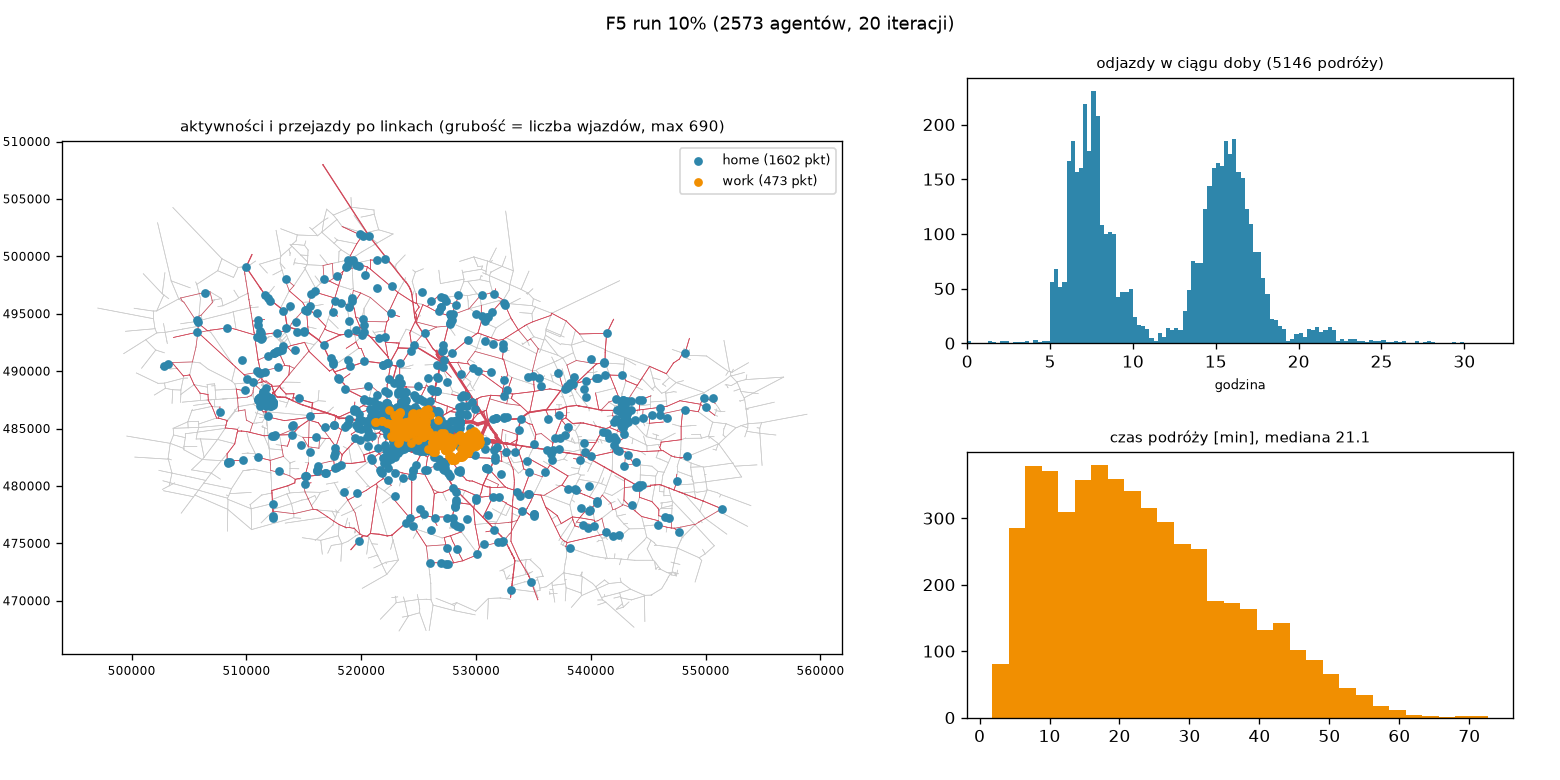
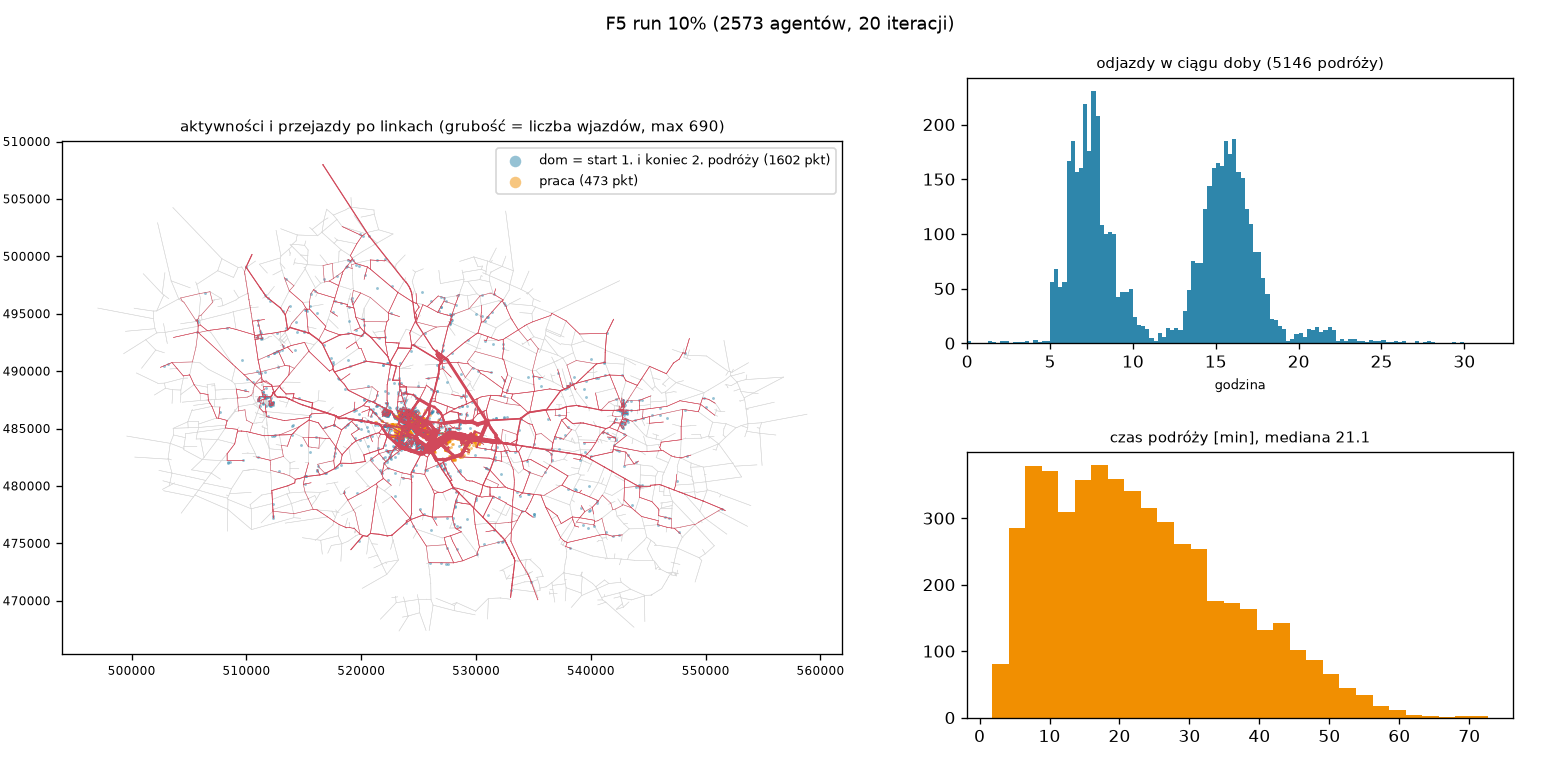
faza5 wykresy: linki z ruchem nad kropkami, mapa opóźnień rozróżnia brak ruchu i ruch bez opóźnienia

diff --git a/pipeline/link_delay.py b/pipeline/link_delay.py
@@ -56,8 +56,17 @@ fig, ax = plt.subplots(figsize=(10, 9))
 for lk, l in L.items():
     (x1, y1), (x2, y2) = nodes[l["a"]], nodes[l["b"]]
     avg = delay[lk] / n[lk] if n[lk] else 0
-    ax.plot([x1, x2], [y1, y2], color=plt.cm.inferno_r(min(avg / 300, 1)) if avg > 10 else "0.85",
-            lw=0.4 + 3 * min(avg / 300, 1), zorder=2 if avg > 10 else 1)
+    if not n[lk]:  # nikt nie przejechał
+        style = dict(color="0.88", lw=0.4, zorder=1)
+    elif avg <= 10:  # ruch bez opóźnienia (≤ 10 s)
+        style = dict(color="#7fb3d5", lw=0.8, zorder=2)
+    else:
+        style = dict(color=plt.cm.inferno_r(min(avg / 300, 1)), lw=0.8 + 3 * min(avg / 300, 1), zorder=3)
+    ax.plot([x1, x2], [y1, y2], **style)
+ax.plot([], [], color="0.88", label=f"bez ruchu ({sum(1 for lk in L if not n[lk])} linków)")
+ax.plot([], [], color="#7fb3d5", label=f"ruch, opóźnienie ≤ 10 s ({sum(1 for lk in L if n[lk] and delay[lk] / n[lk] <= 10)})")
+ax.plot([], [], color="#c0392b", lw=2, label=f"opóźnienie > 10 s ({sum(1 for lk in L if n[lk] and delay[lk] / n[lk] > 10)})")
+ax.legend(loc="lower right", fontsize=8)
 for i, r in enumerate(report["top_links"][:5]):
     ax.annotate(str(i + 1), r["coord_EN"], fontsize=9, color="#0b3c5d", weight="bold", xytext=(4, 4), textcoords="offset points")
 ax.text(0.01, 0.99, "\n".join(f"{i + 1}: {r['type']}, śr. {r['avg_delay_s']} s, {r['vehicles']} poj."

diff --git a/pipeline/plot_run.py b/pipeline/plot_run.py
@@ -56,13 +56,14 @@ vmax = max(volume.values(), default=1)
 for lid, (a, b) in links.items():
     v = volume.get(lid, 0)
     (x1, y1), (x2, y2) = nodes[a], nodes[b]
-    ax.plot([x1, x2], [y1, y2], color="#d1495b" if v else "0.8", lw=0.4 + 4 * v / vmax, zorder=2 if v else 1)
-for typ, col in (("home", "#2e86ab"), ("work", "#f18f01")):
+    ax.plot([x1, x2], [y1, y2], color="#d1495b" if v else "0.85", lw=0.3 + 5 * v / vmax, zorder=3 if v else 1)
+# kropki pod linkami z ruchem, żeby ich nie zasłaniały
+for typ, col, lab in (("home", "#2e86ab", "dom = start 1. i koniec 2. podróży"), ("work", "#f18f01", "praca")):
     pts = {(float(r["coord_x"]), float(r["coord_y"])) for r in acts if r["activity_type"] == typ}
     if pts:
         xs, ys = zip(*pts)
-        ax.scatter(xs, ys, s=18, color=col, label=f"{typ} ({len(pts)} pkt)", zorder=3)
-ax.set_aspect("equal"); ax.legend(loc="best", fontsize=8)
+        ax.scatter(xs, ys, s=3, color=col, alpha=0.5, lw=0, label=f"{lab} ({len(pts)} pkt)", zorder=2)
+ax.set_aspect("equal"); ax.legend(loc="best", fontsize=8, markerscale=4)
 ax.set_title(f"aktywności i przejazdy po linkach (grubość = liczba wjazdów, max {vmax})", fontsize=9)
 ax.ticklabel_format(useOffset=False, style="plain"); ax.tick_params(labelsize=7)
 
